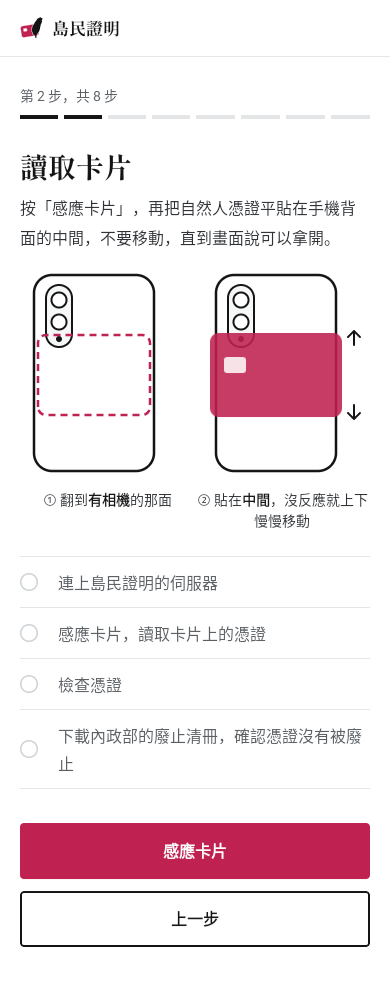
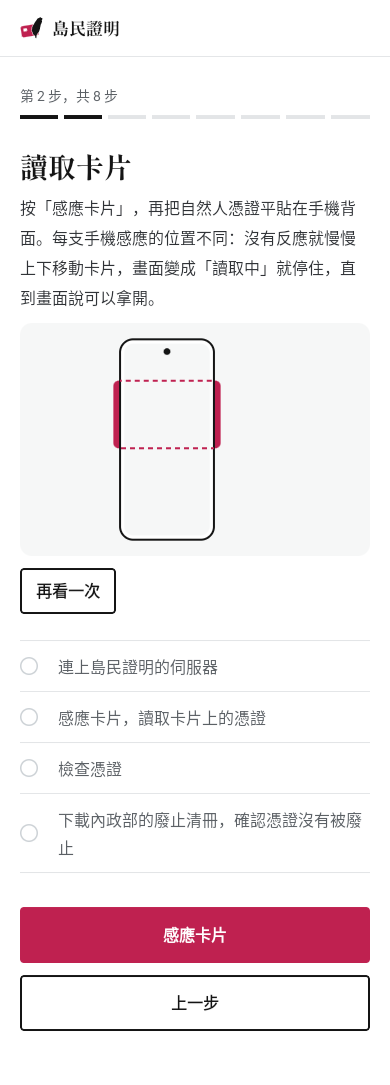
WIP #374 第 2 步的示範：字檔、模擬器測試、README、截圖

diff --git a/android/test/card-proof.ts b/android/test/card-proof.ts
@@ -433,13 +433,35 @@ async function cardProof(p: Proof): Promise<string> {
   // Step 2
   await waitText(step(2), "step 2");
   if (p.thorough) {
+    // The demonstration of where the card goes (design/copy/card-proof.md, "示範"): one element to a screen reader; it plays by itself
+    // when the step comes up, three rounds, and 停止 goes straight to its rest: the card in place.
+    {
+      const picture = find((n) => n.id === "sense-demo", "the demonstration of step 2");
+      check(picture.description === say("app_demo.sense_android"), `step 2's demonstration reads as its one sentence of the copy ("${picture.description.slice(0, 20)}…")`);
+      const [stop, replay] = [say("app_demo.stop"), say("app_demo.replay")];
+      const says = (label: string): boolean => textsOf(visible()).includes(label);
+      check(says(stop) && !says(replay), "step 2: the demonstration plays by itself, and its button says 停止");
+      press(stop);
+      await waitText(replay, "step 2's demonstration stopped", 10_000);
+      check(says(replay) && !says(stop), "step 2: 停止 stops the demonstration, and its button says 再看一次");
+      if (RECORD_SENSE !== undefined) {
+        emulator.adb("emu", "screenrecord", "start", "--fps", "60", "--bit-rate", "12M", "--time-limit", "40", RECORD_SENSE);
+        await sleep(1_000);
+        press(replay);
+        await sleep(28_000);
+        emulator.adb("emu", "screenrecord", "stop");
+        await waitText(replay, "step 2's demonstration at rest after its three rounds", 10_000);
+        check(true, `step 2: the demonstration came to rest by itself after its rounds, recorded as ${RECORD_SENSE}`);
+      }
+      toTop();
+    }
     shot("step-2");
     await designShot("card-proof-app-2-read-android-phone.png");
     const s = wholeScreen();
-    shows(s, "step 2", [say("read.title"), say("app_read.how", { spot: SPOT }), ...READ_ITEMS, say("common.back"), say("app_read.tap_card")]);
+    shows(s, "step 2", [say("read.title"), say("app_read.how_android"), say("app_demo.replay"), ...READ_ITEMS, say("common.back"), say("app_read.tap_card")]);
     check(![say("read.component"), say("read.reader"), say("read.certificate")].some((x) => s.includes(x)), "step 2's list has no item of MOICA's component or a card reader");
-    const figure = find((n) => n.id === "tap-place", "step 2's figure of where the card goes");
-    check(figure.description === say("app_read.figure_android"), "step 2's figure reads as its one sentence of the copy");
+    // Where on its back differs from one Android phone to another: nothing here says the middle, or not to move the card.
+    check(!s.some((t) => t.includes(say("app_read.spot_iphone")) || t === say("app_read.how", { spot: SPOT })), "step 2 does not say where on the phone's back, nor the sentence that says not to move the card");
   }
   press(say("app_read.tap_card"));
   if (p.thorough) await tapWithPanel({ signs: false });
@@ -657,6 +679,9 @@ const neverAfter = (account: string): string[] => [
   say("done.return_title"),
   say("done.return_note"),
 ];
+
+/** Where IAMREAL_RECORD_SENSE says to keep a recording of step 2's demonstration, played once from its start to its rest (android/README.md). */
+const RECORD_SENSE = process.env.IAMREAL_RECORD_SENSE;
 
 /** Where IAMREAL_RECORD says to keep a recording of step 6's demonstration, played once from its start (android/README.md). */
 const RECORD = process.env.IAMREAL_RECORD;

diff --git a/android/README.md b/android/README.md
@@ -10,7 +10,7 @@
 
 - **中斷和錯誤**（[#171](https://github.com/iamreal-tw/iamreal/issues/171)）：掉線重來、送 PIN 時掉線、換了卡、PIN 不正確、5 分鐘的各種回來的路、最低版本（`min_app`）和沒有 NFC 的畫面。現在遇到這些會停下來並寫出 `design/copy/` 已經有的那一句；app 的句子還沒寫的情況只寫「停在這裡」。`config` 的 `min_app` 現在還沒有讀
 - 正式的圖示（[#154](https://github.com/iamreal-tw/iamreal/issues/154)）。現在是暫時的：一整片網站的青色（`#226977`，`web/src/ui/style.css` 的 `--teal`），沒有字、沒有圖案，和 iOS 的暫時圖示相同（`app/src/main/res/mipmap-anydpi/ic_launcher.xml`）
-- 第 2 步示意圖的位置還沒有在真手機上實測過（[#153](https://github.com/iamreal-tw/iamreal/issues/153)）：卡片貼在背面的中間，是設計交接時定的
+- 第 2 步的示範還沒有在真手機上對過（[#153](https://github.com/iamreal-tw/iamreal/issues/153)）：示範裡卡片在手機背面上下找、停在比中間高一點的地方，是時間表定的，不是量過某一支手機的位置
 
 ## 讀卡
 
@@ -28,7 +28,7 @@
 
 讀卡的指令只有真卡片測得到（模擬器的測試用的是假卡片）。營運者用自己的卡片和手機照這份清單測，結果記在拉取請求上。用開發用 build（「怎麼用線裝到手機」）：連測試網站，簽的是測試的證明紀錄的場合字串，不會記進正式的證明紀錄。記下手機的型號和 Android 版本。
 
-1. **三次感應的完整過卡**：第 1 步到第 8 步走完一次。第 2 步在按「感應卡片」之前，看示意圖的位置對不對：卡片貼在背面中間能不能讀到、要不要上下移動（不對的話記下實際的位置，改圖和圖說，#153）。每一次感應，面板依序是「把卡片貼在手機背面」、「讀取中」、「可以拿開卡片了」。第 6 步「打開你的島民證明」打開後是這次宣告的帳號
+1. **三次感應的完整過卡**：第 1 步到第 8 步走完一次。第 2 步在按「感應卡片」之前先看示範，再照它做一次：卡片平貼在手機背面、沒有反應就慢慢上下移動，讀不讀得到，實際感應到的位置在哪裡（記下手機的型號和位置，#153）。每一次感應，面板依序是「把卡片貼在手機背面」、「讀取中」、「可以拿開卡片了」。第 6 步「打開你的島民證明」打開後是這次宣告的帳號
 2. **中途拿開卡片**：第 2 步面板寫「讀取中」時拿開卡片，畫面寫「卡片在讀取途中離開了手機……」，按「再感應一次」可以讀完。第 5 步感應時面板寫「讀取中」就拿開，畫面寫「卡片在感應途中離開了手機。請再感應一次。」，按「再感應一次」不用再輸入 PIN 就能完成
    - 第 3 步按「確認卡片」，卡片一貼上、面板一變成「讀取中」就拿開。看拿開的時機，畫面寫兩種之一：「卡片在感應途中離開了手機。PIN 還在……」（PIN 還沒送出），或「感應在送出 PIN 的時候中斷了，不確定卡片有沒有收到。……」（PIN 欄位清空，要重新輸入）。記下是哪一句；兩種都不會自己再送一次 PIN
 3. **輸入錯的 PIN 一次**：第 3 步故意輸入錯的 PIN，畫面寫「PIN 不正確。連續輸入錯誤三次，卡片會被鎖住。」，PIN 欄位清空。接著輸入正確的 PIN 過完：卡片的錯誤次數在正確的 PIN 之後歸零。**只錯一次**，錯三次卡片會被鎖住
@@ -50,13 +50,23 @@
 - **接收器不讓別的 app 叫**（`exported="false"`）：鬧鐘到了、通知上的「一週後再提醒我」、系統的三種廣播。打開 app 的畫面是對外開放的（主畫面要叫得到它），所以別的 app 也能用通知的那個方式打開它：得到的只有第 1 步上方那一段字
 - **測試**：日子怎麼算、存什麼、關掉後留下什麼，是單元測試（`app/src/test/…/reminder/`，假的鬧鐘和記憶體裡的儲存）；第 7 步說哪幾句是 `RemindViewTest`，第 6、第 8 步是 `DoneViewTest`。模擬器上的過卡測試走過第 7 步的「這次不要」「開啟提醒」和提醒已經開著的樣子、選間隔和時刻、設定頁，把模擬器的時鐘撥到提醒的時刻，看通知的字、按「一週後再提醒我」、點通知進第 1 步，最後關掉提醒，確認 app 的儲存裡不剩提醒的東西
 
+## 第 2 步的示範
+
+第 2 步說明的下面是一段會動的示範（[#374](https://github.com/iamreal-tw/iamreal/issues/374)，`design/copy/card-proof.md`「示範」），取代原本的示意圖和圖說：手機正面朝著持卡人、全程不動，紅色的卡片從右邊滑到手機後面，上下慢慢找兩次，停在比中間高一點的地方，那一刻一個紅圈。被手機擋住的部分用紅色的虛線透出來。不畫手，不轉手機。每一支 Android 感應的位置不同，所以畫的是怎麼找，說明也換成引導移動卡片的那一句（`app_read.how_android`）。
+
+- **時間表是 `design/motion/sense.json`**（`raw/sense_motion.json`）的 `variants.android`；算法 `ui/demo/SenseMotion.kt` 的 `senseStateAt` 是純函式，`SenseMotionTest` 讀 `spec/vectors/teaching-animation.json` 感應位置的每一個答案
+- **畫面**是一個 `Canvas`（`ui/demo/SenseDemo.kt`），計時和第 6 步的示範共用（`ui/demo/DemoPlayer.kt`）
+- **什麼時候播**：進到第 2 步就開始，播三輪後停在卡片貼好的那一格。下面同一顆按鈕（「停止」「再看一次」）。按了「感應卡片」，示範直接停在卡片貼好的那一格，不自己再動，感應中那顆按鈕不能按：面板出來時底下的畫面是靜的。從第 3 步按「上一步」回來是重新讀卡，示範也從頭播一次
+- 系統關掉動畫時照樣播，對報讀器是一個元素、唸 `app_demo.sense_android`，和第 6 步的示範相同
+- 模擬器上的過卡測試檢查：示範給報讀器的那一句、說明、按鈕的兩個字樣和 `design/copy/` 逐字相同；進到這一步時按鈕是「停止」，按了變成「再看一次」。加上 `IAMREAL_RECORD_SENSE=<檔名>.webm` 時另外錄一段
+
 ## 第 6 步的示範
 
 第 6 步「複製證明連結」和打開個人檔案的按鈕下面，是一段會動的示範（[#373](https://github.com/iamreal-tw/iamreal/issues/373)，`design/copy/card-proof.md`「示範」）：五個示意畫面排成一列，鏡頭從按「複製證明連結」一路帶到個人檔案多出來的那一行，帳號和網址是這張島民證明自己的。和網頁 `/hang/<短編號>`、iOS 播的是同一段。
 
 - **時間表是 `design/motion/hang.json`**，建置時原樣包進安裝檔（`raw/hang_motion.json`），app 不另外抄一份。Android 播的是回程按左上角 ✕ 的那一版（`variants.android`）
 - **算法是純函式**（`ui/demo/HangMotion.kt` 的 `hangStateAt`）：給時間表和秒數，算出那一刻鏡頭在哪、哪個框被標出來、哪一顆被按著、六個畫面變化各走了幾成、現在是四步裡的哪一步。不計時、不碰畫面。`HangMotionTest` 讀 `spec/vectors/teaching-animation.json` 的每一個答案，和網頁、iOS 對的是同一份
-- **畫面**（`ui/demo/HangDemo.kt`）用 Compose 自己的元件畫，不加程式庫：整列一個 `graphicsLayer`（位移加縮放），計時用系統給的每一格（`withFrameNanos`）。五個畫面上的每個框都回報過位置之後才算鏡頭，在那之前整列看不見。示意畫面裡的長度和字級是固定的 dp，不跟系統的字級：帳號最長 30 個字時留在一行，放不下的在尾端截掉
+- **畫面**（`ui/demo/HangDemo.kt`）用 Compose 自己的元件畫，不加程式庫：整列一個 `graphicsLayer`（位移加縮放），計時用系統給的每一格（`withFrameNanos`，`ui/demo/DemoPlayer.kt`）。五個畫面上的每個框都回報過位置之後才算鏡頭，在那之前整列看不見。示意畫面裡的長度和字級是固定的 dp，不跟系統的字級：帳號最長 30 個字時留在一行，放不下的在尾端截掉
 - **什麼時候播**：大半張圖進到畫面時自己播一次，停在最後一格。下面一顆按鈕，播的時候是「停止」（直接到最後一格），停了或播完是「再看一次」。到第 7 步再回來不會從頭重播：播到一半離開的，回來接著播；app 切到背景的那段時間不算。播到哪一步，下面四步的字裡那一步標出來
 - **系統關掉動畫時照樣播**（[#369](https://github.com/iamreal-tw/iamreal/issues/369) 維護者 2026-11-26 的留言）：這段動畫是自己照每一格的時間算的，系統的那個設定本來就管不到它，app 也不去問；看的人用「停止」停下來
 - **對報讀器**整段示範是一個元素，唸 `app_demo.hang` 那一句；裡面畫的字不唸，四步的字照常唸
@@ -172,13 +182,14 @@ $NDK/llvm-readelf -lW app/build/intermediates/merged_native_libs/release/mergeRe
 
 `bundled.sha256` 和 `device-core/crs.sha256` 列出每一個的 SHA-256，數字和 `web/circuits/README.md`、`web/src/prover/artifacts.ts` 相同。建置時每個檔案先核對再複製（`bundleFiles`），做出安裝檔後再核對一次裡面的檔案（`checkApk`）。app 用它們之前，核心還會照寫死在 `device-core/` 的 SHA-256 再核對一次（ADR-0035）：讀完卡之後一次，算證明之前再一次。
 
-`design/` 的四個檔建置時原樣複製進安裝檔的資源（`copyDesign`，清單是 `app/build.gradle.kts` 的 `designResources`），app 的程式裡沒有給人看的句子：
+`design/` 的五個檔建置時原樣複製進安裝檔的資源（`copyDesign`，清單是 `app/build.gradle.kts` 的 `designResources`），app 的程式裡沒有給人看的句子：
 
 | 資源 | 來源 |
 |---|---|
 | `raw/card_proof_copy.json` | `design/copy/card-proof.json`：過卡畫面上的每一句話 |
 | `raw/app_copy.json` | `design/copy/app.json`：只在 app 上、不屬於過卡的字 |
 | `raw/hang_motion.json` | `design/motion/hang.json`：第 6 步示範的時間表（「第 6 步的示範」） |
+| `raw/sense_motion.json` | `design/motion/sense.json`：第 2 步示範的時間表（「第 2 步的示範」） |
 | `font/genryumin2tw_b.otf` | `design/fonts/GenRyuMin2TW-B.otf`：標題用的源流明體 TW 的子集 |
 
 做出安裝檔後 `checkApk`、`checkBundle` 確認每一個都在 `res/` 裡，而且和程式庫裡的逐位元組相同。release 的 APK 把資源換成短的名稱（例如 `res/c7.otf`），所以照內容找，不照路徑。

diff --git a/design/copy/card-proof.md b/design/copy/card-proof.md
@@ -104,12 +104,12 @@ iPhone 用系統的面板，app 只寫中間那一句：
 
 「感應沒有完成」是卡片接上之後、讀到或簽好之前停下來的每一種情況：卡片中途離開、卡片回錯誤、安全通道建立不起來、第一代的卡片、不是同一張卡片、PIN 不正確。這時系統的面板要顯示成失敗的樣子，不是完成的勾：app 帶著這一句收起面板，原因照舊寫在那一步的畫面上（#367）。面板由系統自己收起來的時候不寫這一句，app 也寫不了：持卡人按面板的「取消」、面板等不到卡片、系統結束這一次感應（等太久、app 被切到背景）。
 
-Android 由 app 自己畫一塊從下方出來的面板，寫同樣的事，多一句每支手機感應的位置不同。讀完之前，面板下面有「取消」。
+Android 由 app 自己畫一塊從下方出來的面板，寫同樣的事。每支 Android 感應的位置不同，所以等卡片的那一句不寫貼在哪裡、不寫「不要移動」，寫沒有反應時怎麼找（和第 2 步的說明、示範一致）。讀完之前，面板下面有「取消」。
 
 ```
 把卡片貼在手機背面
 
-自然人憑證平貼在手機背面的中間，不要移動。每支手機感應的位置不同，沒反應的話慢慢移動卡片找一下。
+自然人憑證平貼在手機背面。沒有反應就慢慢上下移動卡片，感應到就停住。
 
 [ 取消 ]
 ```
@@ -343,23 +343,15 @@ app 沒有選裝置的兩個按鈕，按鈕只有「下一步」。
 | 手機 | 畫面寫 |
 |---|---|
 | iPhone | 手機背面的上方 |
-| Android | 手機背面的中間 |
+| Android | 手機背面 |
+
+Android 不寫是背面的哪裡：每一支手機感應的位置不同。這幾個字只用在「沒有感應到卡片」那一句（下面的表）；Android 第 2 步的說明是另一句（下面「示範」）。
 
 按「感應卡片」之前，說明的下面是感應位置。位置要在上線前用真手機實測（#153），不對就改。
 
 iPhone 是一段會動的示範（下面「示範」，#376；`design/screens/card-proof-app-2-read-iphone-phone.png`）：手機正面朝著持卡人、不動，紅色的卡片從右邊滑到手機後面的上方停住，被手機擋住的部分用紅色的虛線透出來，感應到的那一刻一個紅圈。不畫手，不轉手機。進到這一步就開始，做三次後停在卡片貼好的那一格；下面是示範的那一顆按鈕（「停止」「再看一次」）。按了「感應卡片」之後示範停在卡片貼好的那一格，不自己再動（沒有感應到、再感應一次時也是），被系統的面板蓋住（`design/screens/card-proof-app-2-reading-iphone-phone.png`）；感應中那一顆按鈕不能按。全部完成後不畫。
 
-Android 換成示範之前（#374）是一張示意圖：手機的背面，卡片貼在中間，旁邊畫上下的箭頭（`design/screens/card-proof-app-2-read-android-phone.png`）。圖下面兩欄圖說，「有相機」和「中間」用粗體：
-
-```
-① 翻到有相機的那面 · ② 貼在中間，沒反應就上下慢慢移動
-```
-
-整張圖一句替代文字，螢幕閱讀器讀它，不讀圖裡的東西：
-
-```
-把手機翻到有相機的那一面，卡片貼在中間，沒反應就上下慢慢移動
-```
+Android 也是一段會動的示範（#374；`design/screens/card-proof-app-2-read-android-phone.png`），畫法和按鈕相同，不同的是卡片怎麼動：滑到手機後面之後，上下慢慢找兩次，停在比中間高一點的地方，紅圈一次。每一支 Android 感應的位置不同，所以不畫一個固定的位置，畫的是怎麼找。按了「感應卡片」之後同樣停在卡片貼好的那一格，被 app 自己的面板蓋住。全部完成後不畫。
 
 全部完成後，「按「感應卡片」……」那一句換成下面這一句，「感應卡片」換成「下一步」：
 
@@ -1275,7 +1267,7 @@ iamreal.tw/p/7K2Q9FM4XD
 
 ## 示範
 
-過卡流程有兩處用會動的示範說明怎麼做（#369）：第 2 步卡片貼在手機哪裡（兩個 app），和第 6 步把連結掛到個人檔案（兩個 app；網頁的那一頁見 `hang.md`「示範」）。示範怎麼動寫在 `design/motion/`。Android 的第 2 步換成示範之前（#374）還是上面的示意圖、圖說和說明。
+過卡流程有兩處用會動的示範說明怎麼做（#369）：第 2 步卡片貼在手機哪裡（兩個 app），和第 6 步把連結掛到個人檔案（兩個 app；網頁的那一頁見 `hang.md`「示範」）。示範怎麼動寫在 `design/motion/`。
 
 示範旁邊一顆按鈕，兩個字樣。按「停止」直接停在最後一格，按「再看一次」從頭再來，沒有暫停和繼續：
 
@@ -1321,7 +1313,7 @@ Threads 的個人檔案（示意）
 標題（選填）
 ```
 
-第 2 步換成示範之後，Android 的說明是下面這一句：每一支 Android 感應的位置不同，示範裡的卡片會上下移動，說明不能再寫「不要移動」。iPhone 的說明不變。
+Android 第 2 步的說明是下面這一句，不是上面 app 段的那一句：每一支 Android 感應的位置不同，示範裡的卡片會上下移動，說明不能再寫「不要移動」。iPhone 的說明不變。
 
 ```
 按「感應卡片」，再把自然人憑證平貼在手機背面。每支手機感應的位置不同：沒有反應就慢慢上下移動卡片，畫面變成「讀取中」就停住，直到畫面說可以拿開。

diff --git a/design/screens/README.md b/design/screens/README.md
@@ -77,7 +77,7 @@ Android 的實作版由模擬器上的過卡測試（`android/test/card-proof.ts
 |---|---|---|
 | `card-proof-app-1-before-phone.png` | 第 1 步：開始之前 | 實作版（Android） |
 | `card-proof-app-2-read-iphone-phone.png` | 第 2 步：讀取卡片，iPhone 感應位置的示範（停在卡片貼好的那一格） | 實作版（iOS） |
-| `card-proof-app-2-read-android-phone.png` | 第 2 步：讀取卡片，Android，有感應位置的示意圖 | 實作版（Android） |
+| `card-proof-app-2-read-android-phone.png` | 第 2 步：讀取卡片，Android，感應位置的示範停在卡片貼好的那一格 | 實作版（Android） |
 | `card-proof-app-2-reading-iphone-phone.png` | 第 2 步：iPhone 感應中，系統的感應面板 | 定稿版 |
 | `card-proof-app-3-pin-phone.png` | 第 3 步：輸入 PIN | 實作版（Android） |
 | `card-proof-app-4-accounts-phone.png` | 第 4 步：你的帳號 | 實作版（Android） |
